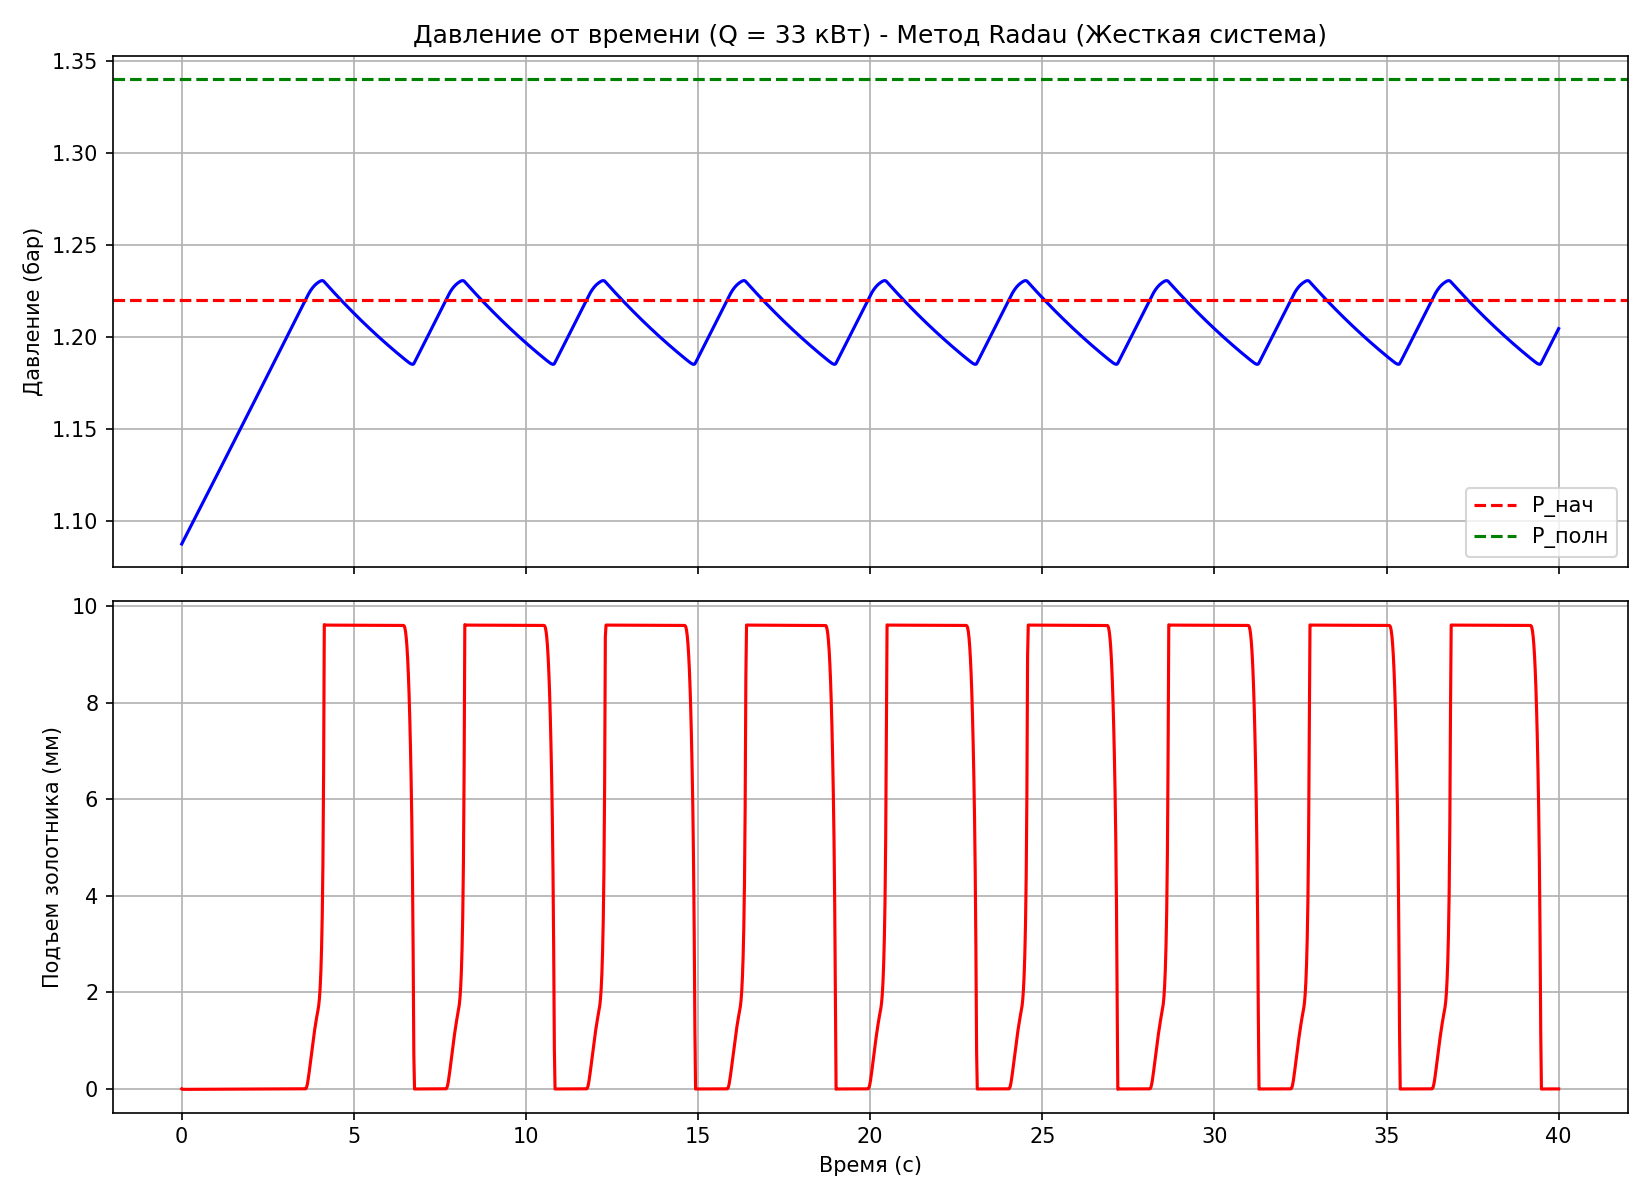
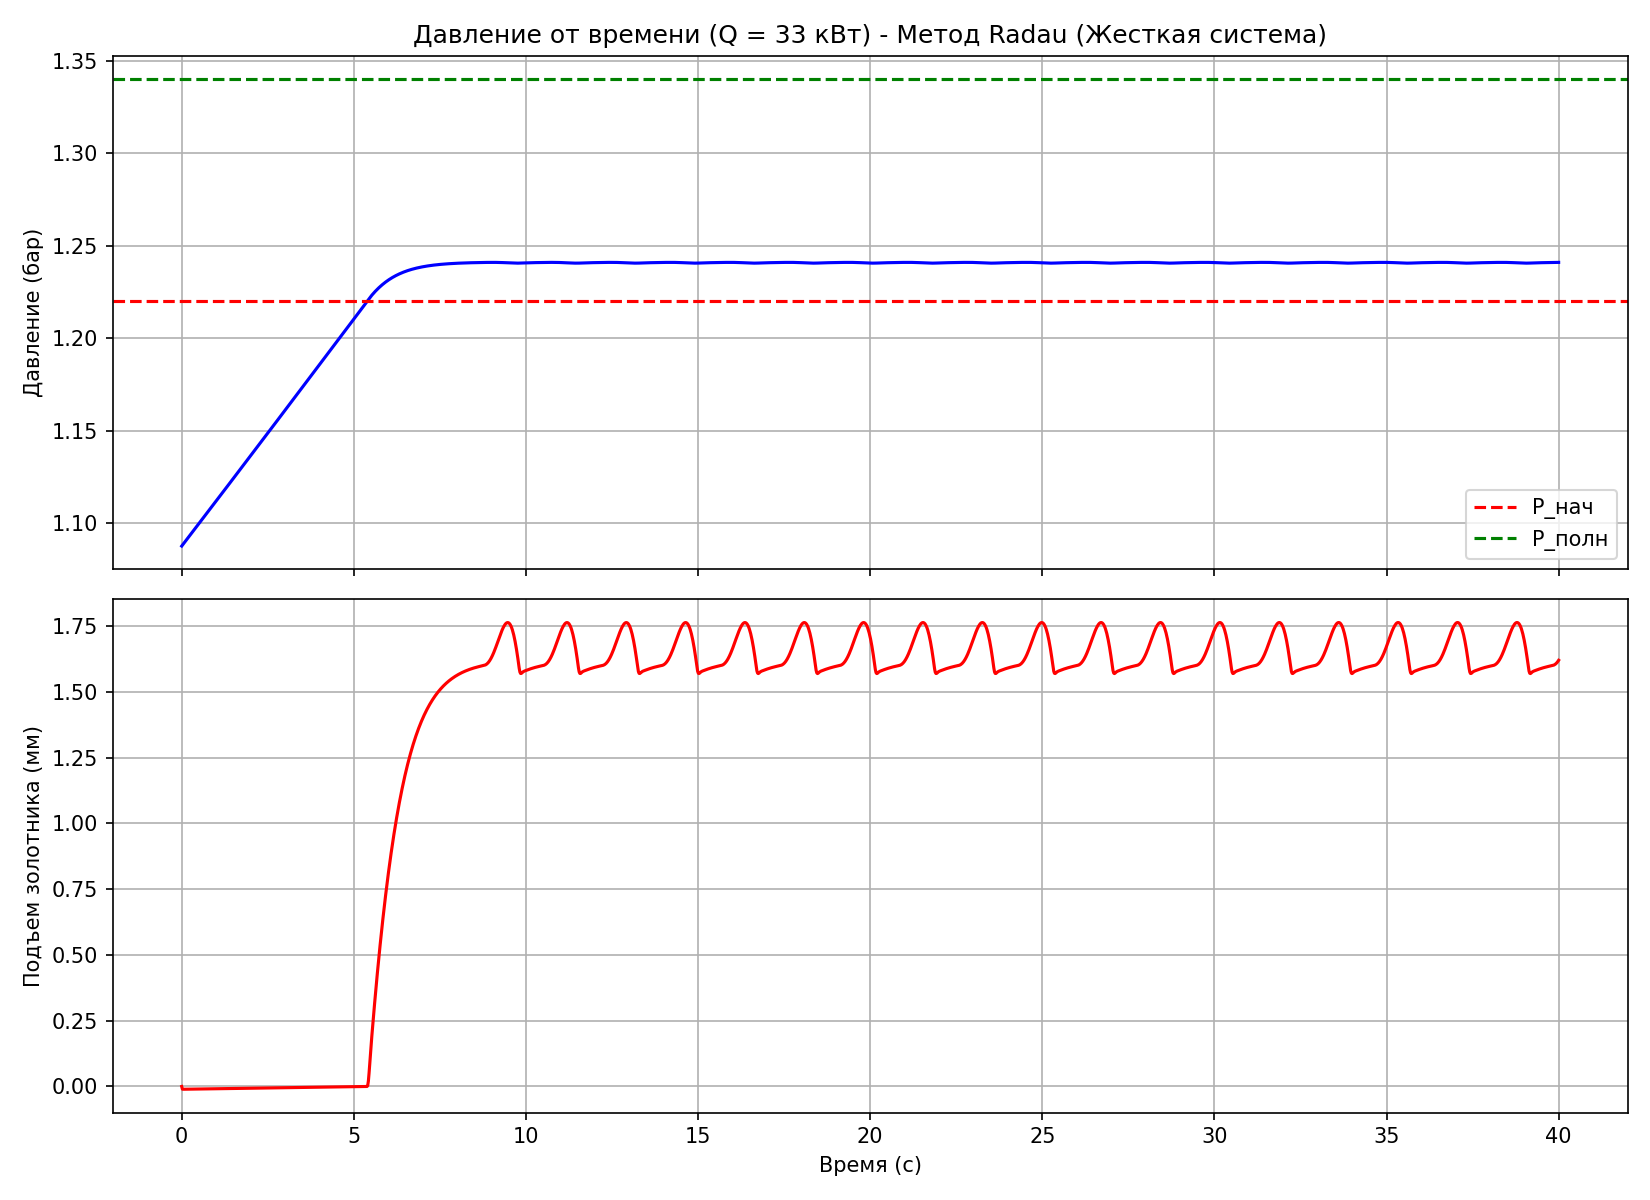
modified:   Another_PRessure_Radau.py 	modified:   Press_RADAU_method_2_position.py 	modified:   Pressure_for_2_position_clapan.py 	modified:   ln2_valve_pop.png 	modified:   ln2_valve_pop_radau.png

diff --git a/laba.py b/laba.py
@@ -1,0 +1,88 @@
+import numpy as np
+import matplotlib.pyplot as plt
+
+# ==========================================
+# 1. Исходные данные (из вашего Excel, "чистый" линейный участок)
+# ==========================================
+U = np.array([810, 870 ,900, 920, 960, 1000, 1080, 1160, 1210, 1295, 1350, 1380, 1420]) # Напряжение, В
+E_gen_exp = np.array([0.9, 6.5, 7.5, 15,11.5, 18.5, 25.0, 31.0, 37.0, 43.0, 49.0, 57.0, 66.0]) # Энергия генерации, мДж
+
+# ==========================================
+# 2. Константы установки и параметры из расчетов
+# ==========================================
+C = 560e-6       # Емкость батареи, Ф (560 мкФ)
+tau_imp = 350e-6 # Длительность импульса, с (350 мкс)
+
+# Критическая мощность (из расчетов в отчете)
+P_k_full = 304.0 # Вт (для полного объема стержня, дает завышение)
+P_k_eff = 45.0   # Вт (для эффективного объема с диафрагмой 3 мм, дает хорошее совпадение)
+
+# ==========================================
+# 3. Расчет энергии накачки и линейная аппроксимация
+# ==========================================
+# E_pump = C * U^2 / 2  (в Джоулях)
+E_pump = 0.5 * C * U**2
+
+# Находим коэффициенты линии тренда y = k*x + b с помощью полиномиальной фитации 1-й степени
+k, b = np.polyfit(E_pump, E_gen_exp, 1)
+
+# Пороговая энергия - это точка пересечения с осью X (где y = 0)
+# 0 = k * E_th + b  =>  E_th = -b / k
+E_th = -b / k
+
+print(f"--- Результаты аппроксимации ---")
+print(f"Наклон (дифференциальный КПД) k = {k:.4f} мДж/Дж")
+print(f"Свободный член b = {b:.2f} мДж")
+print(f"Пороговая энергия E_th = {E_th:.2f} Дж")
+print(f"Пороговое напряжение U_th = {np.sqrt(2 * E_th / C):.1f} В")
+print("----------------------------------")
+
+# ==========================================
+# 4. Расчет теоретических значений
+# ==========================================
+# Создаем плавный массив точек для красивых линий от 0 до максимума E_pump
+E_pump_line = np.linspace(0, np.max(E_pump) * 1.1, 100)
+
+# Уравнение линии тренда эксперимента
+E_gen_trend = k * E_pump_line + b
+
+# Теоретическая формула: E_gen_theor = P_k * tau_imp * (E_pump / E_th - 1)
+# Результат в Джоулях, умножаем на 1000, чтобы получить мДж (как в эксперименте)
+E_gen_theor_full = P_k_full * tau_imp * (E_pump_line / E_th - 1) * 1000
+E_gen_theor_eff = P_k_eff * tau_imp * (E_pump_line / E_th - 1) * 1000
+
+# ==========================================
+# 5. Построение графика
+# ==========================================
+plt.figure(figsize=(10, 6))
+
+# 1. Экспериментальные точки
+plt.scatter(E_pump, E_gen_exp, color='red', s=50, zorder=5, label='$E_{gen}$')
+
+# 2. Линия тренда эксперимента
+plt.plot(E_pump_line, E_gen_trend, color='red', linestyle='--', linewidth=2,
+         label=f'Линия тренда') 
+#$E_{{gen}} = {k:.4f} \\cdot E_{{pump}} {b:+.2f}$\n(Порог $E_{{th}} \\approx {E_th:.1f}$ Дж)')
+
+# 3. Теоретическая линия (полный объем)
+plt.plot(E_pump_line, E_gen_theor_full, color='blue', linestyle='-', linewidth=2,
+         label='$E_{gen_{theor}}$')
+
+# 4. Теоретическая линия (эффективный объем с диафрагмой)
+plt.plot(E_pump_line, E_gen_theor_eff, color='green', linestyle='-.', linewidth=2,
+         label='$E_{gen_{theor diafragma}}$')
+
+# Вертикальная линия, показывающая порог
+plt.axvline(x=E_th, color='gray', linestyle=':', alpha=0.7)
+
+# Оформление графика
+# plt.title('Зависимость энергии генерации от энергии накачки', fontsize=14, fontweight='bold')
+plt.xlabel('Энергия накачки $E_{pump}$, Дж', fontsize=12)
+plt.ylabel('Энергия генерации $E_{gen}$, мДж', fontsize=12)
+plt.grid(True, linestyle=':', alpha=0.7)
+plt.legend(fontsize=11, loc='upper left')
+plt.xlim(left=0)
+plt.ylim(bottom=0)
+# Отображение графика
+plt.tight_layout()
+plt.show()

diff --git a/Press_RADAU_method_2_position.py b/Press_RADAU_method_2_position.py
@@ -55,7 +55,7 @@ def solve_T(n_g, n_l, T_guess):
     return T
 
 # ================= Параметры системы =================
-V_total = 1.30; fill_fraction = 0.18; Q_dot = 30000.0
+V_total = 1.30; fill_fraction = 0.18; Q_dot = 20000.0
 t_end = 40.0
 
 # ================= Клапан =================
@@ -64,7 +64,7 @@ m = 0.5; eta = 30.0
 P_open = 1.22e5; P_full = 1.34e5
 h_max = 0.25*d_c; h_stop = 0.30*d_c
 
-c_spring = 1500.0
+c_spring = 2200.0
 h_0 = (F_c*(P_open - P_atm)*rho_flow(0) - m*g)/c_spring
 
 # ================= Начальные условия =================

diff --git a/Pressure_for_2_position_clapan.py b/Pressure_for_2_position_clapan.py
@@ -70,7 +70,7 @@ h_max = 0.25*d_c; h_stop = 0.30*d_c
 
 # Пружина: двухпозиционный режим (рис. 40-42: линия потока выше
 # линии пружины на подъеме) -> c мала, dF_p/dh > c на малых h
-c_spring = 2200.0
+c_spring = 1000.0
 # Предварительный натяг из условия открытия при P_нач, (III.42)
 h_0 = (F_c*(P_open - P_atm)*rho_flow(0) - m*g)/c_spring
 
